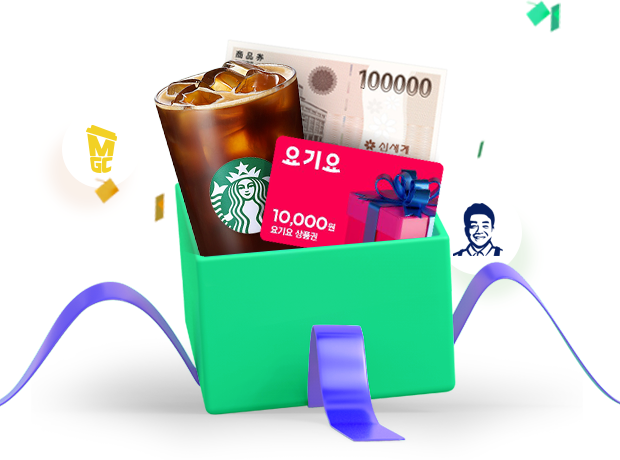
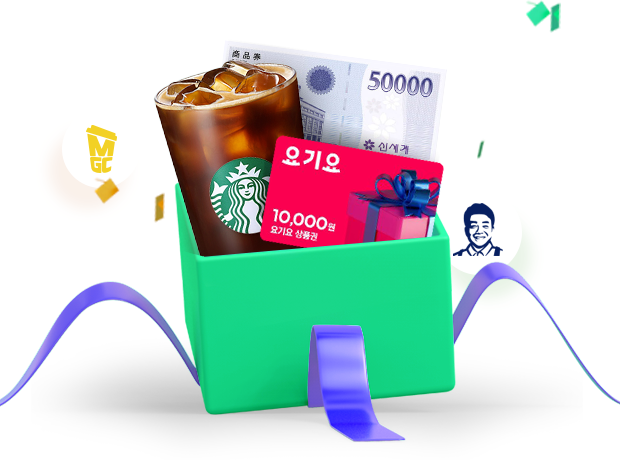
핫딜 메인, 핫딜 리스트 이미지 변경

Changed region(s): [[0.3677, 0.0913, 0.7048, 0.3652]]

diff --git a/apps/010pay/react/index.html b/apps/010pay/react/index.html
@@ -99,7 +99,7 @@ $(document).ready(function(){
 <body>
 <header>
 	<h1>010PAY 리액트 프로젝트(핫딜, 리퍼럴 이벤트) 퍼블리싱 안내</h1>
-	<p>최종 수정일 : 2022-12-09</p>
+	<!-- <p>최종 수정일 : 2022-12-09</p> -->
 </header>
 
 <div class="main">
@@ -193,7 +193,7 @@ $(document).ready(function(){
 					<td>메인</td>
 					<td><a href="public/html/hotdeal/main.html">main</a></td>
 					<td>-</td>
-					<td class="date">2022-11-17</td>
+					<td class="date">2023-07-10</td>
 					<td class="status">완료</td>
 					<td>
 						<div class="flip">
@@ -213,9 +213,9 @@ $(document).ready(function(){
 							</ul>
 							<p><button type="button" class="btn btn-flip"><span class="open">&middot;&middot;&middot;</span><span class="close">이전 내용 숨기기</span></button></p>
 						</div>
-						<!-- <ul>
-							<li></li>
-						</ul> -->
+						<ul>
+							<li class="text-success">2023-07-10 : 핫딜 종료 이미지 수정</li>
+						</ul>
 					</td>
 				</tr>
 				<tr class="bg-wait del">
@@ -289,7 +289,7 @@ $(document).ready(function(){
 					<td>핫딜 목록</td>
 					<td><a href="public/html/hotdeal/list.html">List</a></td>
 					<td>-</td>
-					<td class="date">2022-11-17</td>
+					<td class="date">2023-07-10</td>
 					<td class="status">완료</td>
 					<td>
 						<div class="flip">
@@ -301,9 +301,9 @@ $(document).ready(function(){
 								<li>2022-11-17 : 응모내역 이미지 영역 수정</li>
 							</ul>
 							<p><button type="button" class="btn btn-flip"><span class="open">&middot;&middot;&middot;</span><span class="close">이전 내용 숨기기</span></button></p>
-							<!-- <ul>
-								<li></li>
-							</ul> -->
+							<ul>
+								<li class="text-success">2023-07-10 : 핫딜 종료 이미지 수정</li>
+							</ul>
 						</div>
 					</td>
 				</tr>

diff --git a/apps/010pay/react/styles/hotdeal/MainSlide.module.css b/apps/010pay/react/styles/hotdeal/MainSlide.module.css
@@ -127,7 +127,7 @@
 
 /* 예정된 */
 .cardSlide .cardBox.cardBoxNew .cardStyleNew { position: relative; width: 100%; height: 100%; background: url('../../public/images/hotdeal/main-ready-new-bg.png') no-repeat center / cover; border-radius: 20px;}
-.cardSlide .cardBox.cardBoxNew .cardStyleNew::after { content: ''; position: absolute; top: 0; display: block; width: 100%; height: 100%; background: url('../../public/images/hotdeal/main-ready-new.png') no-repeat top 90px center; background-size: 310px auto; }
+.cardSlide .cardBox.cardBoxNew .cardStyleNew::after { content: ''; position: absolute; top: 0; display: block; width: 100%; height: 100%; background: url('../../public/images/hotdeal/main-ready-new.png?ver=20230710') no-repeat top 90px center; background-size: 310px auto; }
 .cardSlide .cardBox.cardBoxNew .cardStyleNew .textBox { position: relative; top: 55.5px; display: flex; justify-content: center; margin: 0 auto; width: 180px; border: 1px solid #247151; border-radius: 10px; }
 .cardSlide .cardBox.cardBoxNew .cardStyleNew .textBox .textColor1 { font-size: 16px; color: #247151; }
 .cardSlide .cardBox.cardBoxNew .cardStyleNew .textBox .textColor2 { font-size: 16px; font-weight: 700; color: #002b6b; margin-left: 5px; }

diff --git a/apps/010pay/react/styles/hotdeal/List.module.css b/apps/010pay/react/styles/hotdeal/List.module.css
@@ -67,7 +67,7 @@
 .bannerWrap .imgBox { width: 375px; height: 90px; margin: 0 auto; }
 .bannerWrap .imgBox img { height: 100%; }
 .bannerWrap .imgBox1 { position: absolute; left: 50%; margin-left: -175px; max-width: 53px; width: 100%; height: 100%; background: url('../../public/images/hotdeal/list-banner-left.png') no-repeat left bottom / 52px auto }
-.bannerWrap .imgBox2 { position: absolute; left: 50%; margin-left: 95px; max-width: 110px; width: 100%; height: 100%; background: url('../../public/images/hotdeal/list-banner-right.png') no-repeat right center / 110px auto; }
+.bannerWrap .imgBox2 { position: absolute; left: 50%; margin-left: 95px; max-width: 110px; width: 100%; height: 100%; background: url('../../public/images/hotdeal/list-banner-right.png?ver=20230710') no-repeat right center / 110px auto; }
 
 @media screen and (max-width: 359px) {
 	.hotdealList { font-size: 9px; }

diff --git a/apps/010pay/010pay-brand/index.html b/apps/010pay/010pay-brand/index.html
@@ -359,7 +359,7 @@
 					<td>
 						<div class="flip">
 							<ul class="flip-body">
-								<li>2023-07-07 : 페이지 추가</li>
+								<li class="text-success">2023-07-07 : 페이지 추가</li>
 							</ul>
 							<p><button type="button" class="btn btn-flip"><span class="open">&middot;&middot;&middot;</span><span class="close">이전 내용 숨기기</span></button></p>
 						</div>
@@ -375,7 +375,7 @@
 					<td>
 						<div class="flip">
 							<ul class="flip-body">
-								<li>2023-07-07 : 페이지 추가</li>
+								<li class="text-success">2023-07-07 : 페이지 추가</li>
 							</ul>
 							<p><button type="button" class="btn btn-flip"><span class="open">&middot;&middot;&middot;</span><span class="close">이전 내용 숨기기</span></button></p>
 						</div>

diff --git a/apps/010pay/react/public/html/hotdeal/main.html b/apps/010pay/react/public/html/hotdeal/main.html
@@ -11,7 +11,7 @@
 	<link rel="stylesheet" href="../../../styles/common/slick.min.css">
 	<link rel="stylesheet" href="../../../styles/hotdeal/Common.module.css">
 	<link rel="stylesheet" href="../../../styles/hotdeal/Layout.module.css">
-	<link rel="stylesheet" href="../../../styles/hotdeal/MainSlide.module.css">
+	<link rel="stylesheet" href="../../../styles/hotdeal/MainSlide.module.css?ver=20230710">
 	<link rel="stylesheet" href="../../../styles/hotdeal/List.module.css">
 	<link rel="stylesheet" href="../../../styles/hotdeal/Toast.module.css">
 	<!-- //styles -->

diff --git a/apps/010pay/react/public/html/hotdeal/list.html b/apps/010pay/react/public/html/hotdeal/list.html
@@ -11,7 +11,7 @@
 	<link rel="stylesheet" href="../../../styles/hotdeal/Common.module.css">
 	<link rel="stylesheet" href="../../../styles/hotdeal/Layout.module.css">
 	<link rel="stylesheet" href="../../../styles/hotdeal/Nav.module.css">
-	<link rel="stylesheet" href="../../../styles/hotdeal/List.module.css">
+	<link rel="stylesheet" href="../../../styles/hotdeal/List.module.css?ver=20230710">
 	<!-- //styles -->
 
 	<!-- script -->
